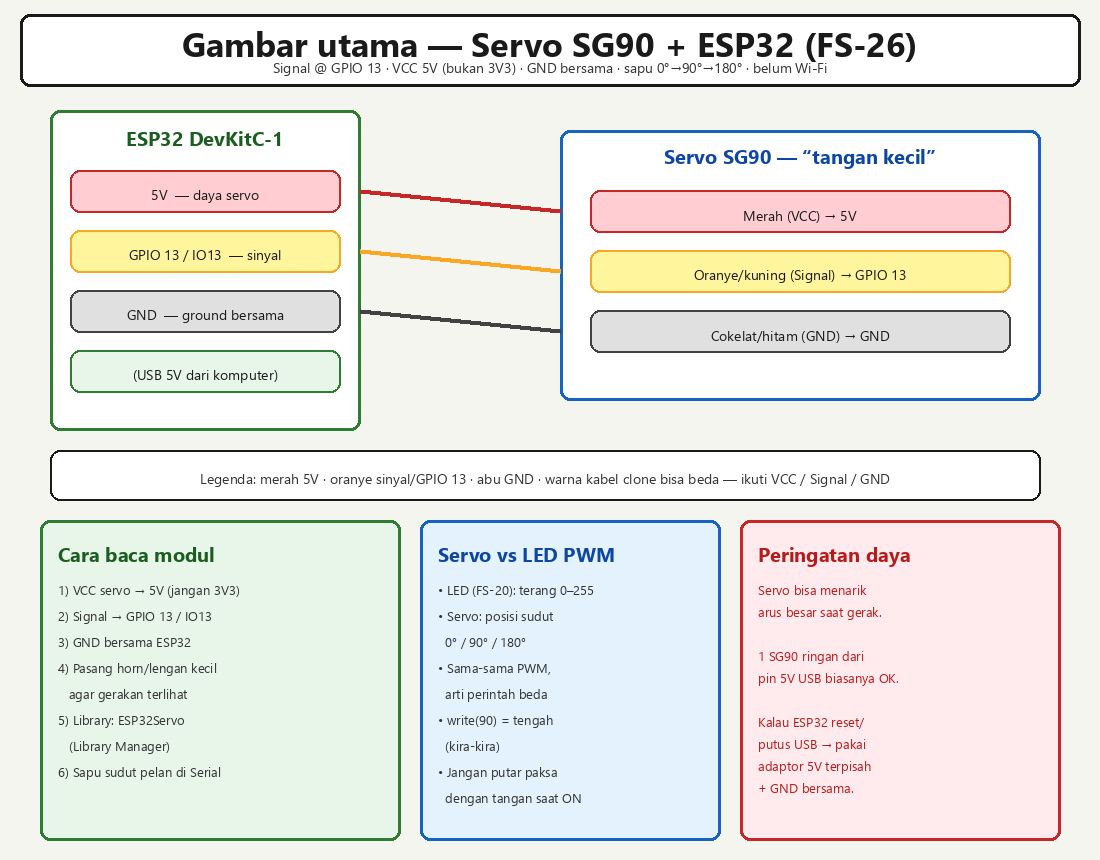
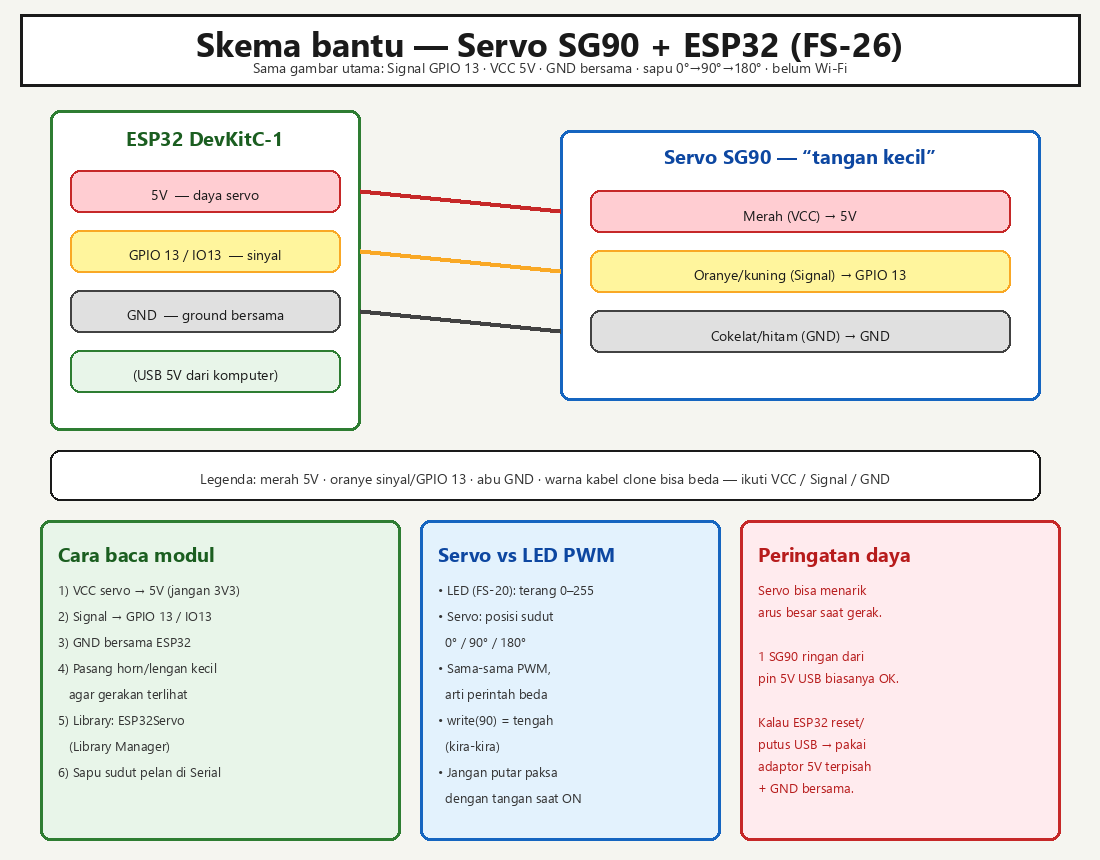
feat(fsiot): #96 gambar utama breadboard servo dari rangkaian user
Promote user SG90 wiring photo to main figure; schematic becomes Skema bantu with matching captions and FTP allowlist.

Changed region(s): [[0.1545, 0.0302, 0.8345, 0.0907]]

diff --git a/database/seeders/Article96Seeder.php b/database/seeders/Article96Seeder.php
@@ -160,11 +160,11 @@ HTML;
     {
         return <<<'HTML'
 <figure style="margin:1.5rem 0;max-width:100%;background:#F5F5F0;border:2.5px solid #1a1a1a;border-radius:8px;padding:0.75rem 0.75rem 0.35rem">
-  <img src="/images/fsiot/fs26-servo-wiring.png" width="1100" height="860" alt="Gambar utama — rangkaian servo SG90 GPIO 13 ke ESP32" loading="eager" style="width:100%;height:auto;max-height:560px;object-fit:contain;border-radius:6px;background:#F5F5F0">
+  <img src="/images/fsiot/fs26-servo-breadboard.png" width="1238" height="737" alt="Gambar utama — rangkaian servo SG90 GPIO 13 di breadboard" loading="eager" style="width:100%;height:auto;max-height:560px;object-fit:contain;border-radius:6px;background:#fff">
   <figcaption style="font-size:0.85rem;margin-top:0.5rem;color:#1a1a1a;">
-    <strong>Gambar utama — servo SG90 ke ESP32.</strong> Merah: <strong>5V</strong> → VCC servo · oranye: <strong>IO13 / GPIO 13</strong> → Signal · abu/hitam: <strong>GND</strong> bersama. Jangan isi VCC dari <strong>3V3</strong>.
-    <br><em>Tip:</em> nomor kolom breadboard ≠ nomor GPIO. Pasang horn/lengan kecil supaya gerakan sudut terlihat jelas. Kalau board sering reset saat servo bergerak, pindahkan daya servo ke adaptor 5V terpisah (GND tetap bersama).
-    <br>Sumber gambar: diagram berlabel buatan Koding Indonesia (FS-26).
+    <strong>Gambar utama — rangkaian servo di breadboard.</strong> Merah: <strong>5V</strong> → VCC servo · kuning/oranye: <strong>Signal</strong> → <strong>IO13 / GPIO 13</strong> · hitam: <strong>GND</strong> bersama (rail biru). Jangan isi VCC dari <strong>3V3</strong>.
+    <br><em>Tip:</em> nomor kolom breadboard ≠ nomor GPIO. Warna kabel dari badan servo (cokelat/merah/kuning) boleh beda dari jumper — ikuti fungsi VCC / Signal / GND. Kalau ESP32 reset saat lengan bergerak, pindahkan daya servo ke adaptor 5V terpisah (GND tetap bersama).
+    <br>Sumber gambar: diagram rangkaian buatan Koding Indonesia (FS-26).
   </figcaption>
 </figure>
 HTML;
@@ -174,15 +174,42 @@ HTML;
     {
         return <<<'HTML'
 <figure style="margin:1.5rem 0;max-width:100%;background:#F5F5F0;border:2.5px solid #1a1a1a;border-radius:8px;padding:0.75rem 0.75rem 0.35rem">
-  <img src="/images/fsiot/fs26-servo-wiring.png" width="1100" height="860" alt="Main figure — SG90 servo GPIO 13 wiring to ESP32" loading="eager" style="width:100%;height:auto;max-height:560px;object-fit:contain;border-radius:6px;background:#F5F5F0">
+  <img src="/images/fsiot/fs26-servo-breadboard.png" width="1238" height="737" alt="Main figure — SG90 servo GPIO 13 on a breadboard" loading="eager" style="width:100%;height:auto;max-height:560px;object-fit:contain;border-radius:6px;background:#fff">
   <figcaption style="font-size:0.85rem;margin-top:0.5rem;color:#1a1a1a;">
-    <strong>Main figure — SG90 servo to ESP32.</strong> Red: <strong>5V</strong> → servo VCC · orange: <strong>IO13 / GPIO 13</strong> → Signal · grey/black: shared <strong>GND</strong>. Do not power VCC from <strong>3V3</strong>.
-    <br><em>Tip:</em> breadboard column numbers ≠ GPIO numbers. Fit a small horn/arm so angular motion is easy to see. If the board resets when the servo moves, move servo power to a separate 5V supply (keep a common GND).
+    <strong>Main figure — servo circuit on a breadboard.</strong> Red: <strong>5V</strong> → servo VCC · yellow/orange: <strong>Signal</strong> → <strong>IO13 / GPIO 13</strong> · black: shared <strong>GND</strong> (blue rail). Do not power VCC from <strong>3V3</strong>.
+    <br><em>Tip:</em> breadboard column numbers ≠ GPIO numbers. Servo lead colors (brown/red/yellow) may differ from jumpers — follow VCC / Signal / GND. If the ESP32 resets when the arm moves, move servo power to a separate 5V supply (keep a common GND).
+    <br>Image source: wiring diagram by Koding Indonesia (FS-26).
+  </figcaption>
+</figure>
+HTML;
+    }
+
+    private function schemaWiringFigureId(): string
+    {
+        return <<<'HTML'
+<figure style="margin:1.5rem 0;max-width:100%;background:#F5F5F0;border:2.5px solid #1a1a1a;border-radius:8px;padding:0.75rem 0.75rem 0.35rem">
+  <img src="/images/fsiot/fs26-servo-wiring.png" width="1100" height="860" alt="Skema bantu — ringkasan pin servo SG90 GPIO 13" loading="eager" style="width:100%;height:auto;max-height:520px;object-fit:contain;border-radius:6px;background:#F5F5F0">
+  <figcaption style="font-size:0.85rem;margin-top:0.5rem;color:#1a1a1a;">
+    <strong>Skema bantu (ringkas).</strong> Pin sama gambar utama: Signal GPIO 13 · VCC 5V · GND bersama · sapu 0°/90°/180°. Pakai ini jika kamu lebih nyaman membaca kotak pin daripada foto breadboard.
+    <br>Sumber gambar: diagram berlabel buatan Koding Indonesia (FS-26).
+  </figcaption>
+</figure>
+HTML;
+    }
+
+    private function schemaWiringFigureEn(): string
+    {
+        return <<<'HTML'
+<figure style="margin:1.5rem 0;max-width:100%;background:#F5F5F0;border:2.5px solid #1a1a1a;border-radius:8px;padding:0.75rem 0.75rem 0.35rem">
+  <img src="/images/fsiot/fs26-servo-wiring.png" width="1100" height="860" alt="Helper schematic — SG90 servo GPIO 13 pin summary" loading="eager" style="width:100%;height:auto;max-height:520px;object-fit:contain;border-radius:6px;background:#F5F5F0">
+  <figcaption style="font-size:0.85rem;margin-top:0.5rem;color:#1a1a1a;">
+    <strong>Helper schematic.</strong> Same pins as the main figure: Signal GPIO 13 · VCC 5V · shared GND · sweep 0°/90°/180°. Use this if you prefer labeled pin boxes over the breadboard photo.
     <br>Image source: labeled diagram by Koding Indonesia (FS-26).
   </figcaption>
 </figure>
 HTML;
     }
+
 
     private function flowSvgId(): string
     {
@@ -292,6 +319,7 @@ HTML;
         $board = $this->boardFigureId();
         $kit = $this->kitServoFigureId();
         $main = $this->mainWiringFigureId();
+        $schema = $this->schemaWiringFigureId();
         $flow = $this->flowSvgId();
         $serial = $this->serialPanelSvgId();
 
@@ -330,6 +358,7 @@ HTML;
 <h2>Wiring (bahasa manusia)</h2>
 {$kit}
 {$main}
+{$schema}
 <p><strong>Blok servo:</strong></p>
 <ul>
 <li><strong>VCC</strong> (merah) → pin <strong>5V</strong> ESP32 — <strong>jangan</strong> 3V3</li>
@@ -415,6 +444,7 @@ HTML;
         $board = $this->boardFigureEn();
         $kit = $this->kitServoFigureEn();
         $main = $this->mainWiringFigureEn();
+        $schema = $this->schemaWiringFigureEn();
         $flow = $this->flowSvgEn();
         $serial = $this->serialPanelSvgEn();
 
@@ -453,6 +483,7 @@ HTML;
 <h2>Wiring (human language)</h2>
 {$kit}
 {$main}
+{$schema}
 <p><strong>Servo block:</strong></p>
 <ul>
 <li><strong>VCC</strong> (red) → ESP32 <strong>5V</strong> — <strong>not</strong> 3V3</li>

diff --git a/scripts/audit-article96.php b/scripts/audit-article96.php
@@ -39,7 +39,7 @@ check('published_at null', str_contains($src, "'published_at'") && str_contains(
 check('slug fullstack-iot-servo-pwm', str_contains($src, 'fullstack-iot-servo-pwm'));
 check('seed route exists', str_contains($routes, 'seed-article-96-draft'));
 check('deploy seed step', str_contains($deploy, 'seed-article-96-draft'));
-check('ftp allowlist fs26', str_contains($deploy, 'fs26-servo-wiring.png') && str_contains($deploy, 'kit-servo-sg90.jpg') && str_contains($deploy, 'fs26-cover-servo.jpg'));
+check('ftp allowlist fs26', str_contains($deploy, 'fs26-servo-wiring.png') && str_contains($deploy, 'fs26-servo-breadboard.png') && str_contains($deploy, 'kit-servo-sg90.jpg') && str_contains($deploy, 'fs26-cover-servo.jpg'));
 
 check('ID self-ref #96 (ini)', str_contains($id, '#96 (ini)'));
 check('EN self-ref #96 (this article)', str_contains($en, '#96 (this article)'));
@@ -52,11 +52,14 @@ check('friendly tip labels EN', str_contains($en, 'In short:') && str_contains($
 check('H2 parity', substr_count($id, '<h2') === substr_count($en, '<h2'));
 check('figures both >= 5', substr_count($id, '<figure') >= 5 && substr_count($en, '<figure') >= 5);
 
+check('breadboard PNG asset', str_contains($id, 'fs26-servo-breadboard.png') && is_file(__DIR__.'/../public/images/fsiot/fs26-servo-breadboard.png'));
 check('wiring PNG asset', str_contains($id, 'fs26-servo-wiring.png') && is_file(__DIR__.'/../public/images/fsiot/fs26-servo-wiring.png'));
 check('kit servo asset', str_contains($id, 'kit-servo-sg90.jpg') && is_file(__DIR__.'/../public/images/fsiot/kit-servo-sg90.jpg'));
 check('cover asset', is_file(__DIR__.'/../public/images/fsiot/fs26-cover-servo.jpg'));
-check('Gambar utama label ID', str_contains($id, 'Gambar utama'));
-check('Main figure label EN', str_contains($en, 'Main figure'));
+check('Gambar utama label ID', str_contains($id, 'Gambar utama') && str_contains($id, 'fs26-servo-breadboard.png'));
+check('Skema bantu label ID', str_contains($id, 'Skema bantu') && str_contains($id, 'fs26-servo-wiring.png'));
+check('Main figure label EN', str_contains($en, 'Main figure') && str_contains($en, 'fs26-servo-breadboard.png'));
+check('Helper schematic label EN', str_contains($en, 'Helper schematic') && str_contains($en, 'fs26-servo-wiring.png'));
 check('Commons cite SG90', str_contains($id, 'commons.wikimedia.org') && str_contains($id, 'Tower_Pro_SG90'));
 check('IDE caption warns AnalogReadSerial', str_contains($id, 'AnalogReadSerial') && str_contains($en, 'AnalogReadSerial'));
 check('Serial panel SVG 115200', str_contains($id, 'Baud: 115200'));

diff --git a/app/Http/Controllers/DeployController.php b/app/Http/Controllers/DeployController.php
@@ -8830,8 +8830,10 @@ class DeployController extends Controller
             'Cara menguji perintah di atas',
             'Library Manager',
             'kit-servo-sg90.jpg',
+            'fs26-servo-breadboard.png',
             'fs26-servo-wiring.png',
             'Gambar utama',
+            'Skema bantu',
             'AnalogReadSerial',
             'Baud: 115200',
             'Buka Arduino IDE dulu',
@@ -8865,6 +8867,8 @@ class DeployController extends Controller
             'Common mistakes',
             'How to test the commands above',
             'Main figure',
+            'Helper schematic',
+            'fs26-servo-breadboard.png',
             'fs26-servo-wiring.png',
             'Library Manager',
             'AnalogReadSerial',

diff --git a/scripts/gen-fs26-assets.py b/scripts/gen-fs26-assets.py
@@ -67,12 +67,12 @@ C_SIG = "#F9A825"
 C_GND = "#424242"
 
 box(d, (20, 14, W - 20, 86), "#FFFFFF", "#1a1a1a", 3)
-center(d, W // 2, 36, "Gambar utama — Servo SG90 + ESP32 (FS-26)", FT)
+center(d, W // 2, 36, "Skema bantu — Servo SG90 + ESP32 (FS-26)", FT)
 center(
     d,
     W // 2,
     64,
-    "Signal @ GPIO 13 · VCC 5V (bukan 3V3) · GND bersama · sapu 0°→90°→180° · belum Wi-Fi",
+    "Sama gambar utama: Signal GPIO 13 · VCC 5V · GND bersama · sapu 0°→90°→180° · belum Wi-Fi",
     FS,
     "#333",
 )
